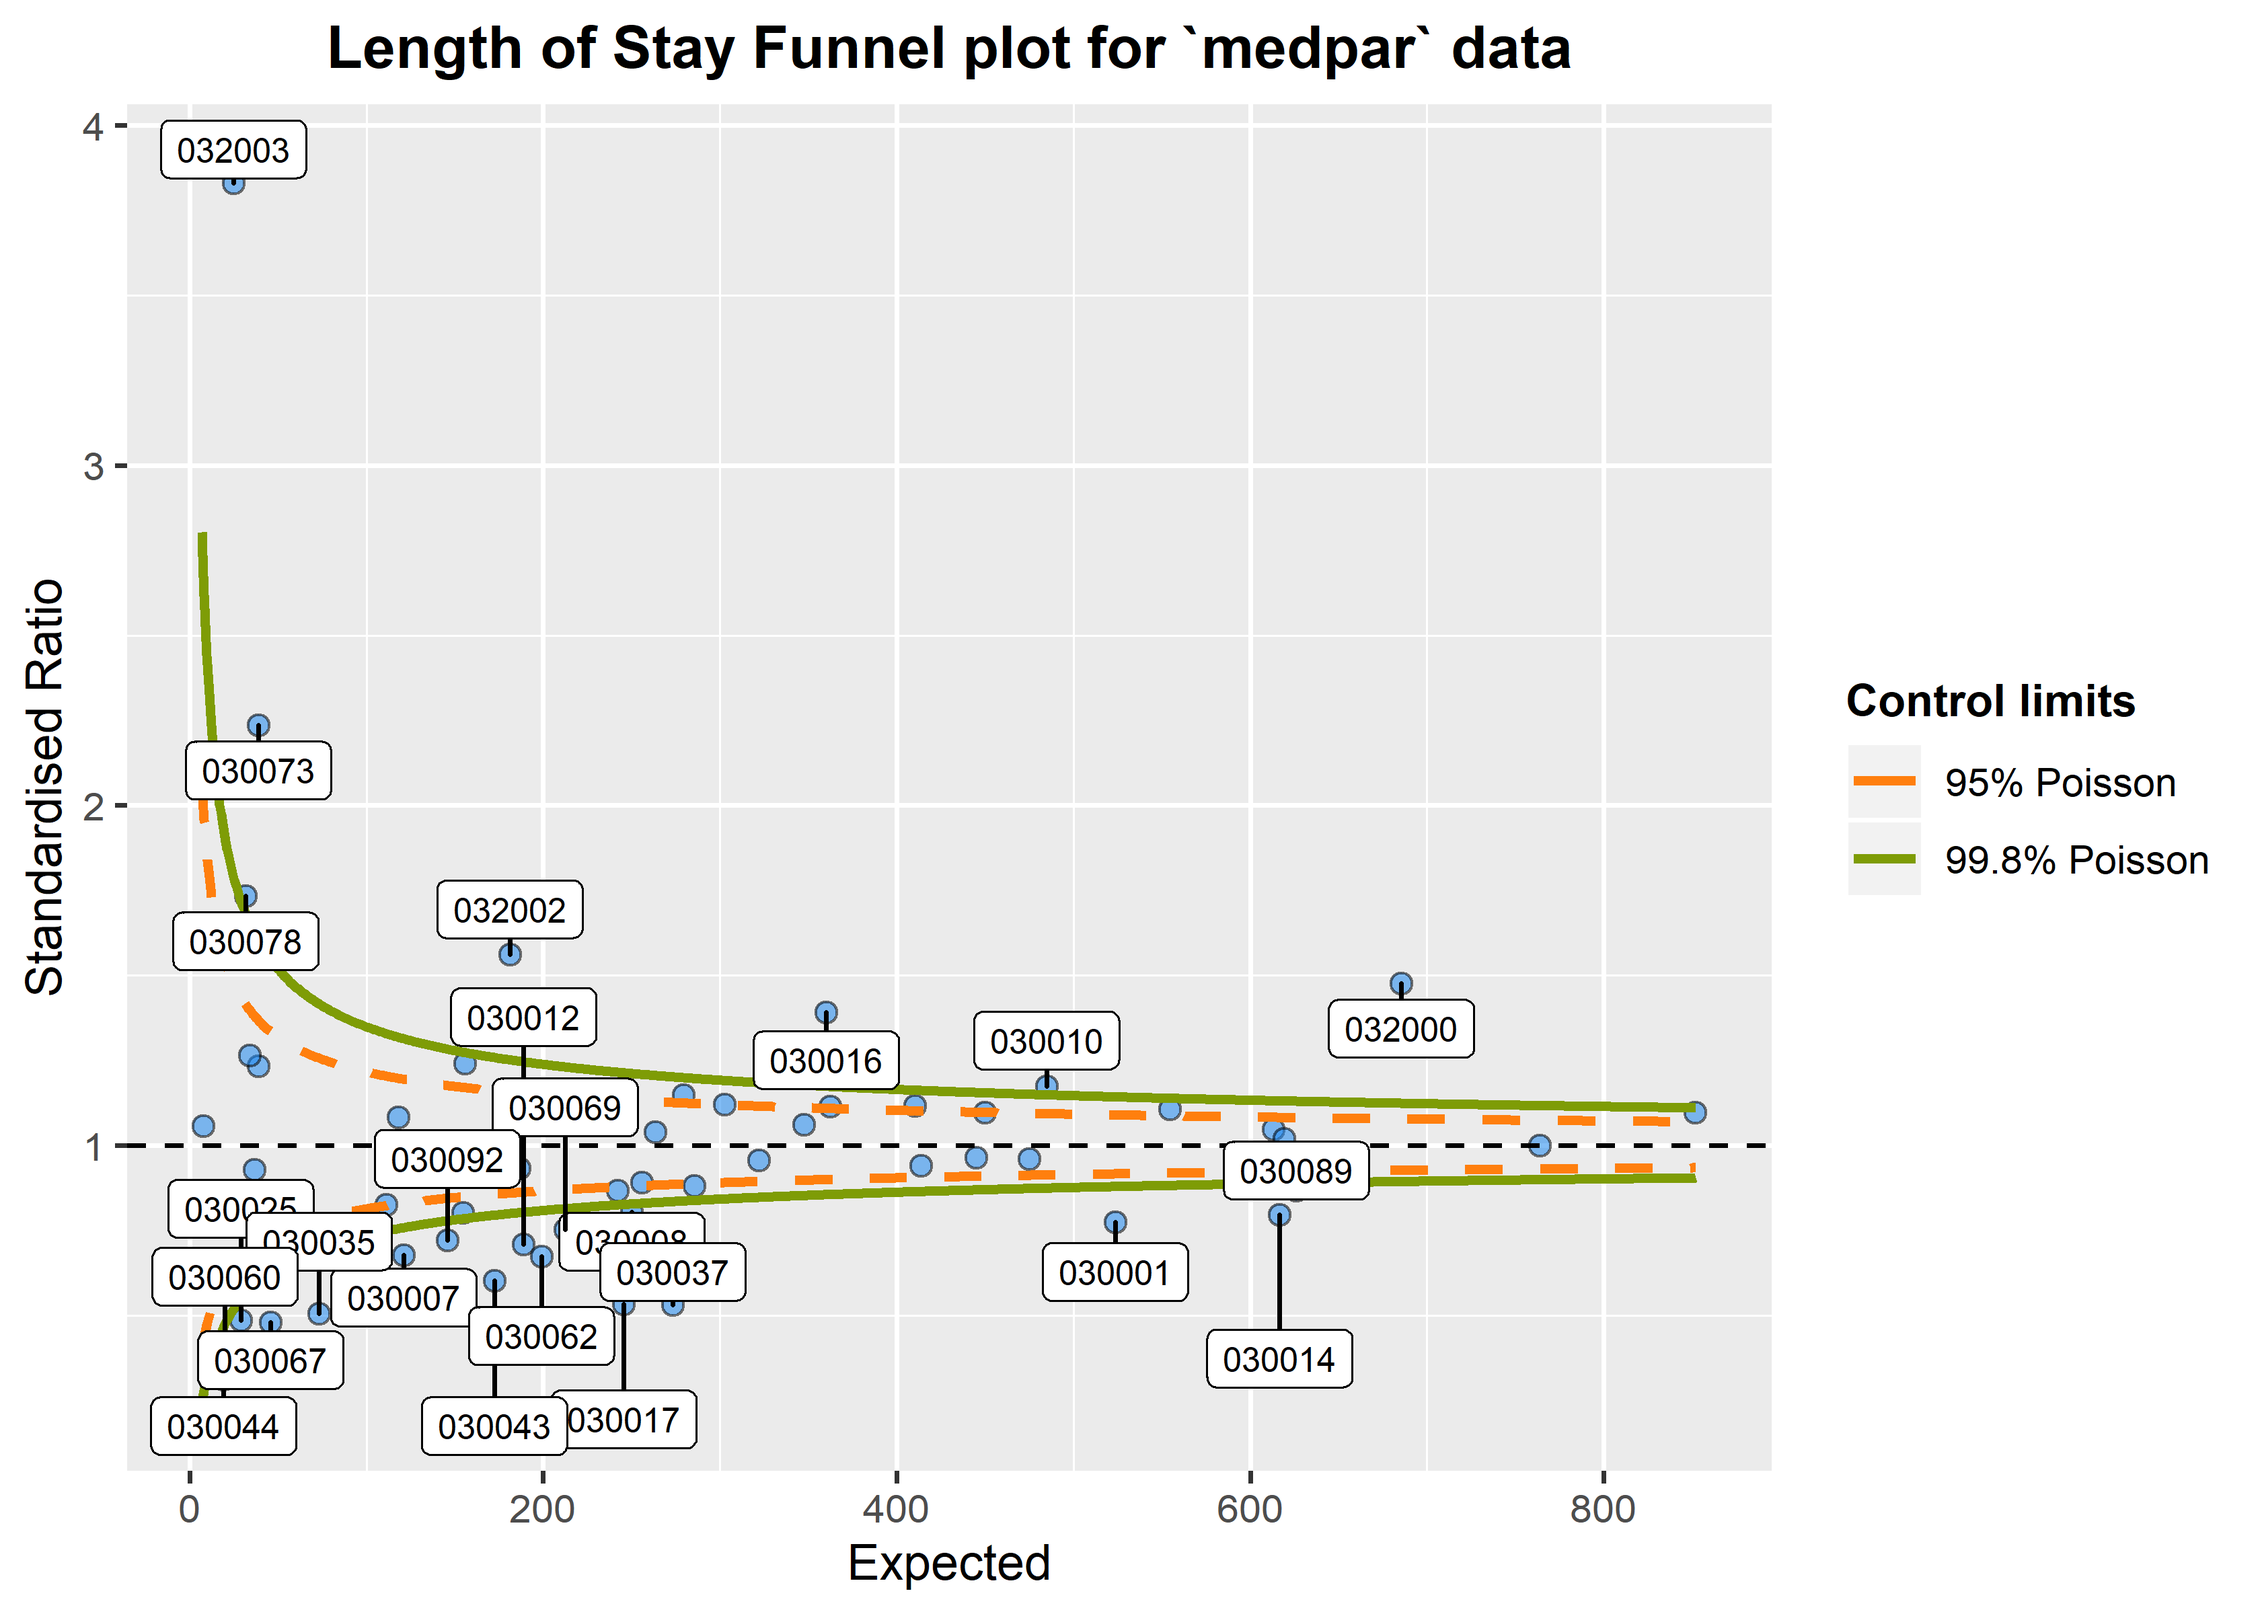
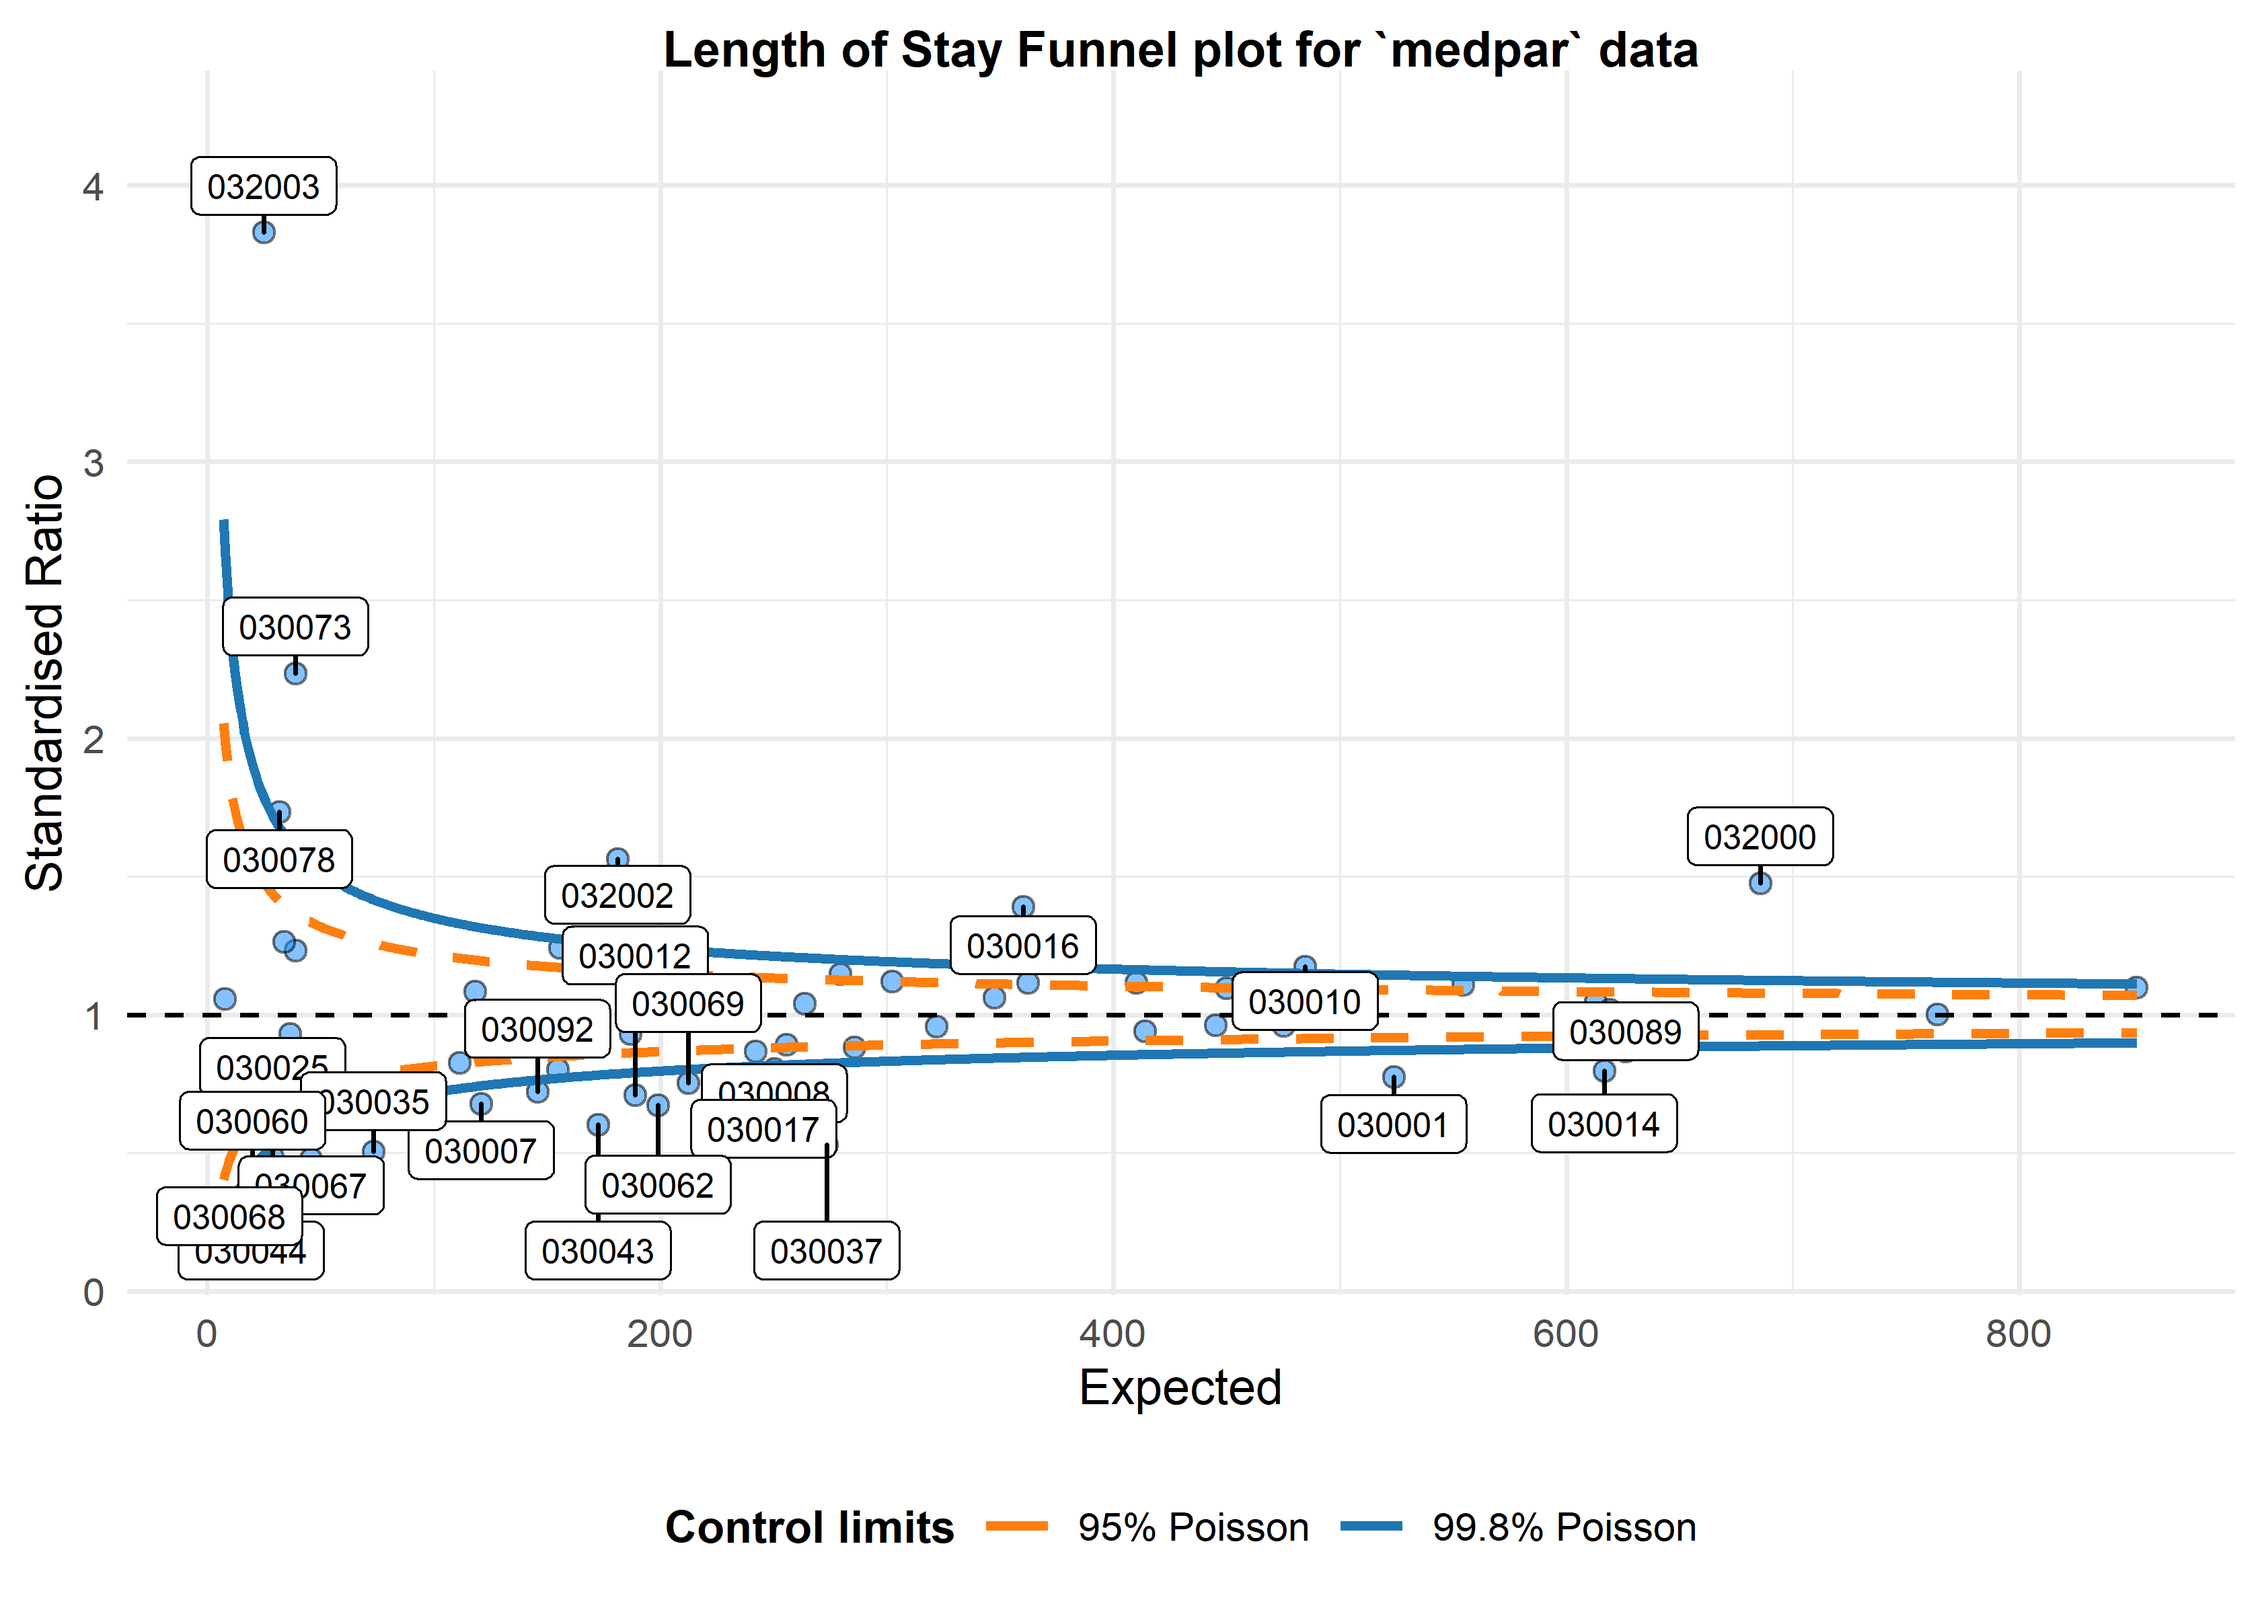
update funnel plot post

diff --git a/content/post/2019-05-08-funnel-plots.html b/content/post/2019-05-08-funnel-plots.html
@@ -13,7 +13,7 @@ tags:
   - overdispersion
   - package
   - SPC
-summary: An introduction to funnel plots, and using the CMFunnels package
+summary: An introduction to funnel plots, and using the FunnelPlotR package
 bibliography: ../../content/post/references.bib
 image:
   caption: ''
@@ -31,7 +31,7 @@ output:
 <div id="funnel-plots" class="section level2">
 <h2><span class="header-section-number">0.1</span> Funnel plots</h2>
 <p>Funnel plots are a common tool for comparing organisations or units using proportions or standardised rates. A common use of them is for monitoring mortality at hospitals. This is an introductory post on the subject, that gives a little information about them and how they are constructed. It is deliberately light on theory, focussing on use, some of the theory is referenced for interested readers.</p>
-<p>This post also uses a funnel plot function, for indirectly standardised ratios, that I built as part of my PhD work. The function is based on <code>ggplot2</code> <span class="citation">(Wickham 2009)</span>, and is available at <a href="https://github.com/chrismainey/CMFunnels" class="uri">https://github.com/chrismainey/CMFunnels</a>, although it’s a work in progress.</p>
+<p>This post also uses a funnel plot function, for indirectly standardised ratios, that I built as part of my PhD work. The function is based on <code>ggplot2</code> <span class="citation">(Wickham 2009)</span>, and is available at <a href="https://github.com/chrismainey/FunnelPlotR" class="uri">https://github.com/chrismainey/FunnelPlotR</a>, although it’s a work in progress.</p>
 <p>There are different kinds of funnel plot, but this post focusses on the type used to compare standardised mortality and other similarly constructed indicators .</p>
 </div>
 <div id="why-do-we-use-them" class="section level2">
@@ -96,7 +96,7 @@ It also allows users to specify whether they want ‘overdispersed’ limits. I 
 <p>Here we will apply this to some data by picking up the <code>medpar</code> dataset discussed by Hilbe and available in the <code>COUNT</code> package <span class="citation">(Hilbe 2014)</span>. It is a set of data points from hospitals in Arizona, in 1991, based on US Medicare data. We’ll use the ‘length of stay’ field ’, <code>los</code>, and model it from the other predictors in the data.</p>
 <div id="installation" class="section level3">
 <h3><span class="header-section-number">0.4.1</span> Installation</h3>
-<pre class="r"><code>install.packages(FunnelPlotR)
+<pre class="r"><code>install.packages(&quot;FunnelPlotR&quot;)
 #or
 devtools::install_github(&quot;https://github.com/chrismainey/FunnelPlotR&quot;)</code></pre>
 </div>
@@ -150,9 +150,10 @@ summary(mod)</code></pre>
 <p>Now we can build a funnel plot object with standard Poisson limits, and outliers labelled. The function returns a list of the plotted data, the plotted control limit range, and the <code>ggplot</code> object, hence <code>object[3]</code> to call it.</p>
 <pre class="r"><code>
 funnel_plot(numerator=medpar$los, denominator=medpar$prds, group = medpar$provnum, title = &#39;Length of Stay Funnel plot for `medpar` data&#39;, 
-            Poisson_limits = TRUE, OD_adjust = FALSE,label_outliers = 99, return_elements = &quot;plot&quot;)
-## $plot</code></pre>
+            Poisson_limits = TRUE, OD_adjust = FALSE, label_outliers = TRUE, limit=99)</code></pre>
 <p><img src="/post/2019-05-08-funnel-plots_files/figure-html/funnel1-1.png" width="672" style="display: block; margin: auto;" /></p>
+<pre><code>## A funnel plot object with 54 points of which 25 are outliers. 
+## Plot is not adjusted for overdispersion.</code></pre>
 <p><br></p>
 </div>
 <div id="overdispersion" class="section level3">
@@ -163,12 +164,11 @@ The following ratio should be 1 if our data are conforming to Poisson distributi
 <pre class="r"><code>sum(mod$weights * mod$residuals^2)/mod$df.residual</code></pre>
 <pre><code>## [1] 6.240519</code></pre>
 <p>This suggests the variance is 6.24 times the condition mean, and definitely overdispersed.
-This is a huge topic, but applying overdispersed limits using either SHMI or Spieglehalter methods adjust for this by inflating the limits:</p>
-<pre class="r"><code>funnel_plot(numerator=medpar$los, denominator=medpar$prds, group = medpar$provnum,  title = &#39;Length of Stay Funnel plot for `medpar` data&#39;, 
-            Poisson_limits = FALSE, OD_adjust = TRUE, method = &quot;SHMI&quot;,
-            label_outliers = 99, return_elements = &quot;plot&quot;)
-## $plot</code></pre>
+This is a huge topic, but applying overdispersed limits using either SHMI or Spiegelhalter methods adjust for this by inflating the limits:</p>
+<pre class="r"><code>funnel_plot(numerator=medpar$los, denominator=medpar$prds, group = medpar$provnum,  title = &#39;Length of Stay Funnel plot for `medpar` data&#39;, Poisson_limits = FALSE, OD_adjust = TRUE, label_outliers = TRUE, limit=99)</code></pre>
 <p><img src="/post/2019-05-08-funnel-plots_files/figure-html/funnel2-1.png" width="672" style="display: block; margin: auto;" /></p>
+<pre><code>## A funnel plot object with 54 points of which 9 are outliers. 
+## Plot is adjusted for overdispersion.</code></pre>
 <p><br><br>
 Given these adjustments, we now only have nine organisations showing special-cause variation. To interpret this plot properly, we would first investigate these outlying organisations before making any changes to the system/indicator. We should check for possible data quality issues, such as errors, missing model predictors, environmental factors (e.g. one organisation changing computer systems and data standards etc. during the monitoring period), but once these are examined we might suspect issues with care at the hospitals in question. They can then be investigated by local audit and casenote review.</p>
 <p>These methods can be used for any similar indicators, e.g. standardised mortality ratios, readmissions etc.</p>
@@ -178,7 +178,7 @@ Given these adjustments, we now only have nine organisations showing special-cau
 <div id="summary" class="section level2">
 <h2><span class="header-section-number">0.5</span> Summary</h2>
 <p>Funnel plots are useful ways to visualise indicators such as mortality, readmission and length of stay data at hospitals, that presents both the indicator value but also a measure of the size/variance at organisations. They allow limits to be drawn between what we might expect by chance, and what we might consider to be a signal for investigation. Organisations outside the funnel limits should be examined, first for data quality issues and then for issues with process and clinical care. Overdispersion means that these limits are often too strict, but they can be inflated to adjusted for this.</p>
-<p>If you’d like to use my outline <code>ggplot</code> function, or contribute, please pull or fork it on github: <a href="https://github.com/chrismainey/FunnelPlotR" class="uri">https://github.com/chrismainey/FunnelPlotR</a>, or install from CRAN with <code>install.packages('FunnelPlotR')</code>.</p>
+<p>If you’d like to use my outline <code>ggplot2</code> function, or contribute, please pull or fork it on github: <a href="https://github.com/chrismainey/FunnelPlotR" class="uri">https://github.com/chrismainey/FunnelPlotR</a>, or install from CRAN with <code>install.packages("FunnelPlotR")</code>.</p>
 <p><br></p>
 </div>
 <div id="references" class="section level2 unnumbered">
